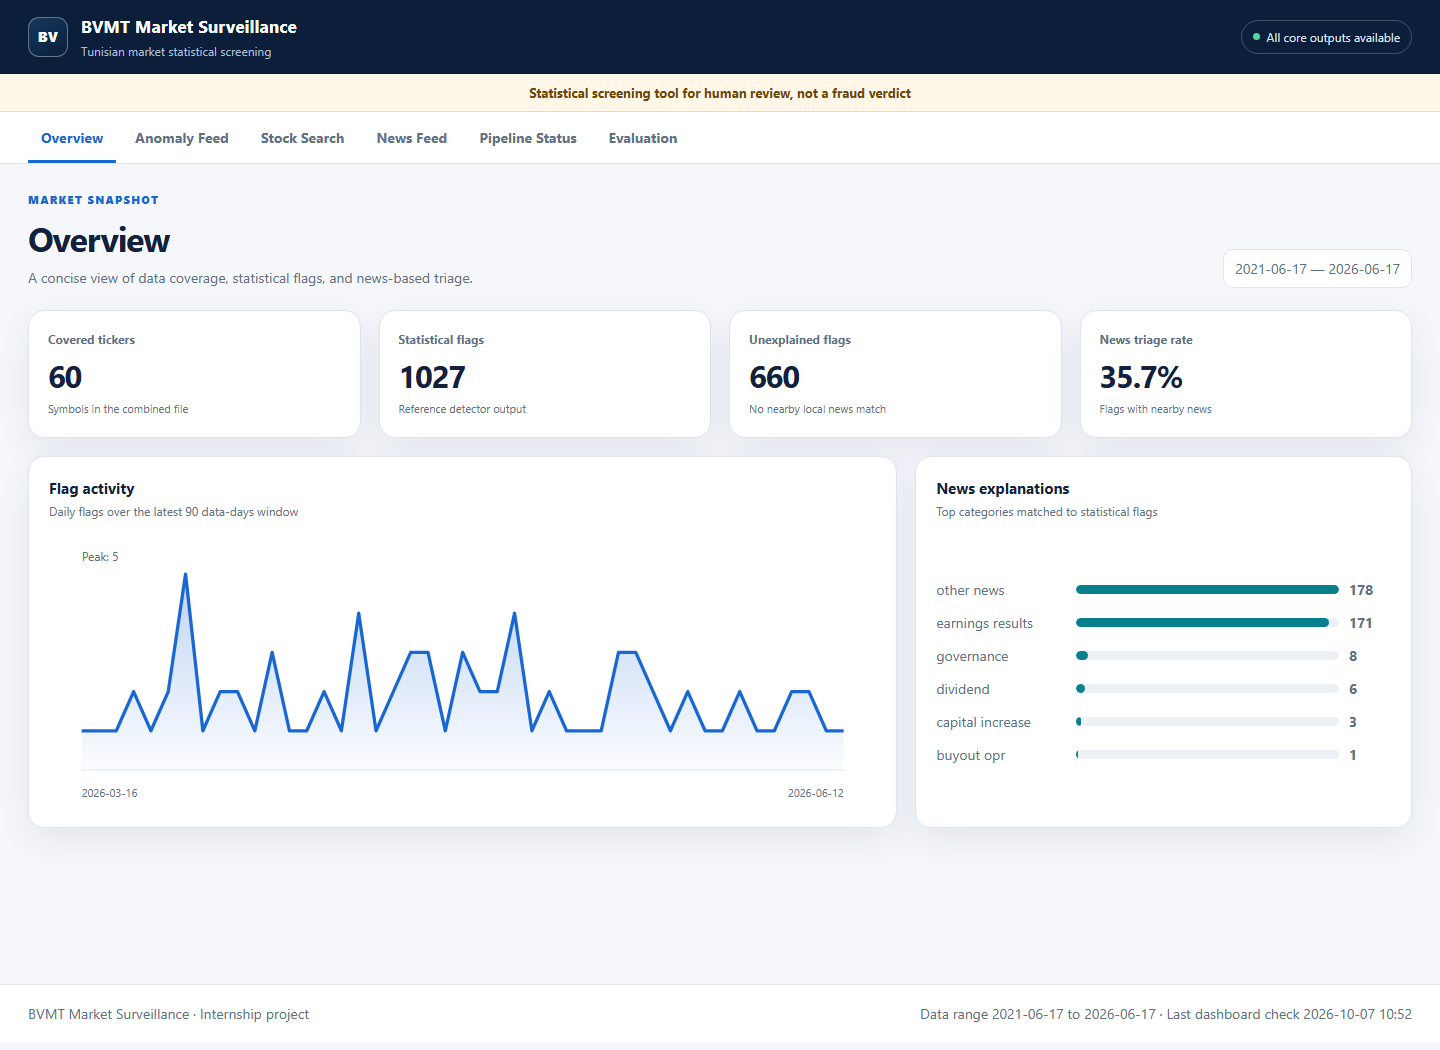
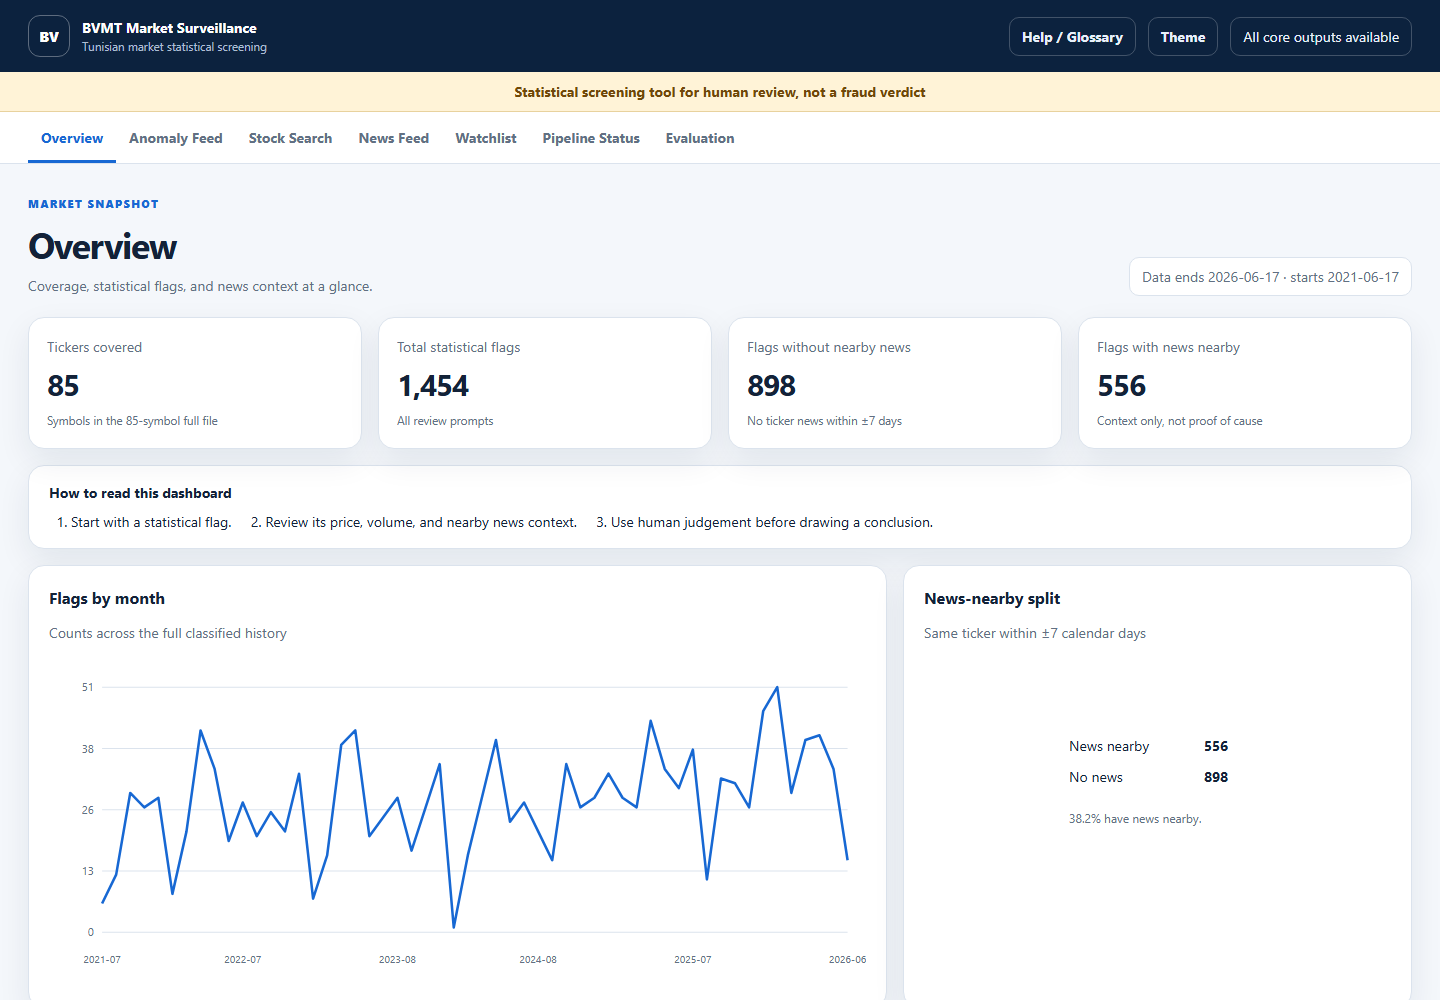
Phase 4: refresh overview docs and page screenshots

diff --git a/docs/DEMO_SCRIPT.md b/docs/DEMO_SCRIPT.md
@@ -8,39 +8,43 @@ Run `python app.py` and open `http://127.0.0.1:5000`. Do not run the scraper dur
 
 Say: “This is a statistical screening tool for the Tunisian stock market. It finds unusual price or volume activity and organizes it for human review. The banner is important: a flag is not a verdict.”
 
-Point out the local data period, the 60 covered tickers, and the visible disclaimer.
+Point out the local data period, the 85 covered tickers, and the visible disclaimer.
 
 ## 0:35–1:15 — Overview
 
 Click **Overview**.
 
-Say: “The overview shows the size of the dataset and the current reference output. The detector produced 1,027 flags. The timeline and category chart are rendered locally, so the dashboard does not depend on an external chart service.”
+Say: “The overview shows the full 85-symbol dataset and 1,454 statistical flags. The charts have labelled axes and are rendered locally, so the dashboard does not depend on an external chart service.”
 
 ## 1:15–1:55 — Anomaly Feed
 
 Click **Anomaly Feed**.
 
-Say: “This table is the review queue. I can search by ticker and filter by risk level. The ranking helps a reviewer decide where to start, but it does not claim that a company did anything wrong.”
+Say: “This is the complete 1,454-row review queue. I can filter, sort, paginate, and export the current result. This row has news nearby; the timing and source are visible here, but nearby news is context, not proof of cause.”
+
+Click a row with **News nearby**, open the drawer, and point to both plain-English z-score descriptions, the ±7-day news list, and the reminder about cause.
 
 ## 1:55–2:30 — Stock Search
 
 Click **Stock Search** and select a ticker.
 
-Say: “This page puts a signal back into its price history. The blue line shows the available close prices, and marked points show statistical flags. This makes the result easier to inspect than a CSV alone.”
+Say: “This page puts a signal back into its price history. Price and volume use separate labelled axes, the range buttons change the requested history, and hovering shows OHLCV plus the daily change.”
 
-## 2:30–3:00 — News Feed
+Click a red marker and say: “The same contextual drawer opens from the chart, so the reviewer never loses the link between a signal and its source data.”
 
-Click **News Feed**.
+## 2:30–3:00 — Watchlist
 
-Say: “The news page provides possible public context. A nearby article can explain a movement, but a missing article does not prove that a flag is important. Local coverage can be incomplete.”
+Click **Watchlist**.
 
-## 3:00–3:30 — Pipeline Status
+Say: “The refined queue contains 17 rows. The colour chips are draft opinions from an external model, never findings, and the reasoning remains expandable for human review. Below it are 15 separate volume-decay cases.”
+
+## 3:00–3:20 — Pipeline Status
 
 Click **Pipeline Status**.
 
 Say: “This page shows which generated files are available. The dashboard does not start scraping. The safe default command runs analysis from existing local data, and a network refresh needs an explicit option.”
 
-## 3:30–4:35 — Evaluation
+## 3:20–4:35 — Evaluation
 
 Click **Evaluation**.
 

diff --git a/README.md b/README.md
@@ -11,7 +11,20 @@ A reproducible statistical screening project for the Bourse de Valeurs Mobilièr
 - News cross-reference, rule-based classification, and watchlist refinement.
 - Optional Groq-assisted triage whose output is a draft opinion for human review.
 - A source-audited, case-study-level evaluation with fixed event windows, simple baselines, sensitivity reporting, and a negative control.
-- A six-page Flask dashboard and an offline pytest suite.
+- A seven-page, responsive Flask dashboard with native SVG charts and an offline pytest suite.
+
+## Dashboard v2
+
+- Overview with labelled monthly activity, top-ticker counts, news-context split, and recent flags.
+- Full Anomaly Feed with server-side filters, sorting, pagination, CSV export, and contextual detail drawers.
+- Stock Search with price and volume axes, OHLCV hover tooltips, range controls, and clickable flag markers.
+- News Feed with ticker/category filters and links from matched headlines back to flag detail.
+- Watchlist with all 17 AI draft assessments and 15 volume-decay cases.
+- Help/glossary, keyboard-friendly drawers, loading/error states, responsive layouts, and an optional saved dark theme.
+
+![Dashboard overview](docs/screenshots/overview.png)
+![Stock Search with labelled price and volume panels](docs/screenshots/stock-search.png)
+![Watchlist triage page](docs/screenshots/watchlist.png)
 
 ## Install
 
@@ -94,7 +107,9 @@ src/triage/                  optional Groq-assisted draft triage
 src/evaluation/              metrics, baselines, and sensitivity tools
 outputs/evaluation/          generated tables, figures, and summary
 outputs/evaluation_60symbol/ archived earlier 60-symbol evaluation
-templates/dashboard.html     self-contained six-page dashboard
+templates/dashboard.html     semantic seven-page dashboard shell
+static/dashboard.css         offline responsive design system
+static/dashboard.js          API client, native SVG charts, filters, and drawers
 tests/                       offline tests and minimal fixtures
 docs/REPORT.md               full project report
 docs/DEMO_SCRIPT.md          five-minute presentation guide
